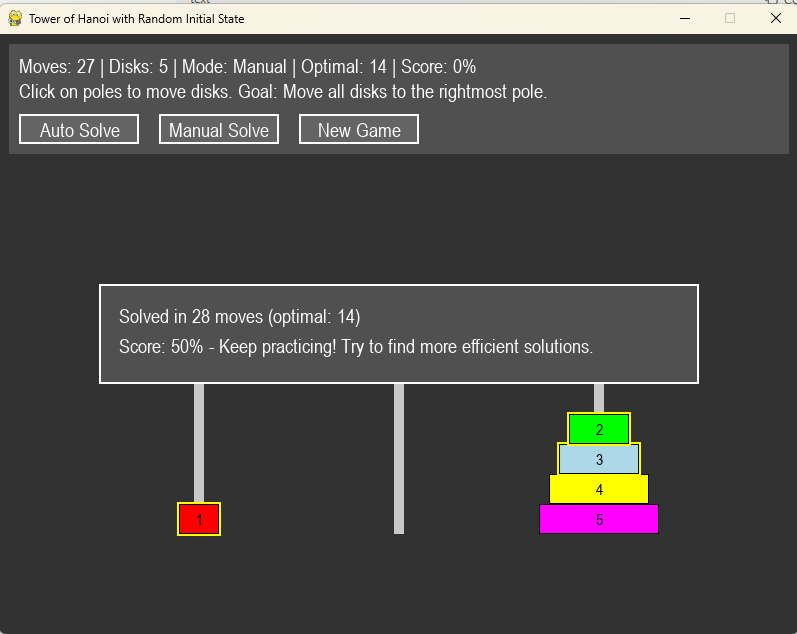
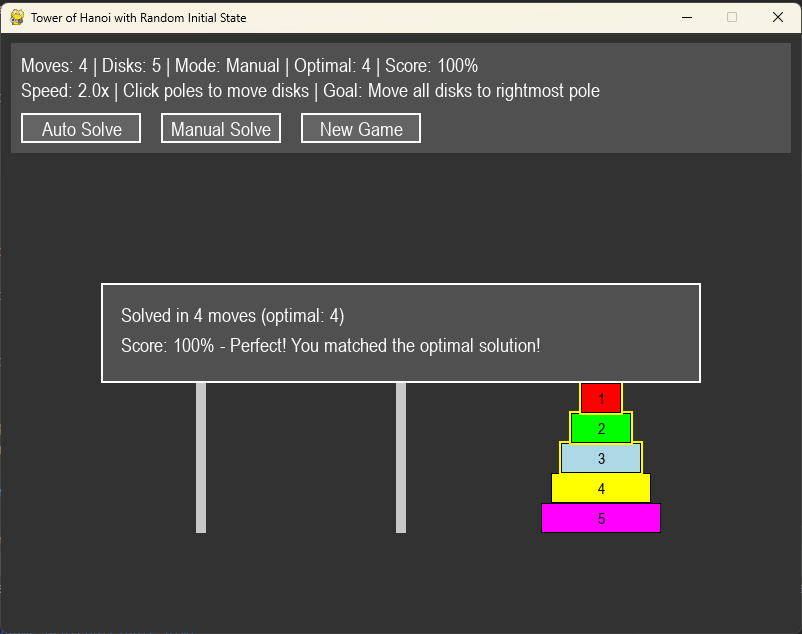
Fixed timing of winning screen

diff --git a/hanoi_pygame.py b/hanoi_pygame.py
@@ -2,9 +2,13 @@
 # Fadil Eldin
 # July 12 2025
 # Tower of Hanoi puzzle with a variation.Allow starting from any valid initial state and always move all disks to the rightmost pole.
-# 2 modes:
-# 1) Auto, You stack the disks on the right pole.
-# 2) Manual, let user solve the problem manually.
+# Two modes:
+# 1) Manual: Play and solve the puzzle yourself by moving disks.
+# 2) Auto: Watch the shortest solution found for the current state.
+# Optimal Moves Calculation: Shows the minimal number of moves required from the current state (using BFS).
+# Scoring: Get a score based on how close you are to the optimal solution.
+# Interactive GUI: Click to select and move disks, or use buttons to switch modes or start a new game.
+# Customizable Disk Count: Easily modify the number of disks between 3 and 8.
 # -------------------------------------------------------------------------------------
 import pygame
 import sys
@@ -38,6 +42,11 @@ PANEL_COLOR = (80, 80, 80)  # Darker gray panel
 BUTTON_COLOR = (100, 100, 100)  # Gray for buttons
 BUTTON_HOVER_COLOR = (120, 120, 120)  # Lighter gray for button hover
 
+# Auto-solve speed control
+MIN_AUTO_DELAY = 0.1   # Fastest speed (100ms between moves)
+MAX_AUTO_DELAY = 2.0   # Slowest speed (2 seconds between moves)
+AUTO_DELAY_STEP = 0.1  # Speed adjustment increment
+
 # Disk settings
 MAX_DISKS = 8
 MIN_DISKS = 3
@@ -51,6 +60,7 @@ class Disk:
         self.color = color
         self.width = MIN_DISK_WIDTH + (size - 1) * DISK_WIDTH_INCREMENT
         self.selected = False
+        self.auto_move_delay = 0.5  # Default speed (medium)
     # ----------------------------------------
     def draw(self, screen, x: int, y: int, font):
         # Draw disk rectangle
@@ -133,6 +143,11 @@ class HanoiGame:
         self.optimal_moves = 0
         self.user_score = 0
         self.solved = False
+        
+        # Win message display control
+        self.show_win_message_flag = False
+        self.win_message_start_time = 0
+        self.win_message_duration = 3.0  # seconds
 
         # Buttons
         button_width = 120
@@ -142,6 +157,17 @@ class HanoiGame:
         self.new_game_button = Button(300, 80, button_width, button_height, "New Game")
 
         self.generate_random_initial_state()
+    # ----------------------------------------
+    def adjust_speed(self, increase: bool):
+        """Adjust auto-solve speed using arrow keys"""
+        if increase:
+            self.auto_move_delay = max(MIN_AUTO_DELAY, self.auto_move_delay - AUTO_DELAY_STEP)
+        else:
+            self.auto_move_delay = min(MAX_AUTO_DELAY, self.auto_move_delay + AUTO_DELAY_STEP)
+
+        # Show speed change feedback
+        speed_multiplier = 1 / self.auto_move_delay
+        print(f"Auto-solve speed: {speed_multiplier:.1f}x speed ({self.auto_move_delay:.1f}s delay)")
     # ----------------------------------------
     def generate_random_initial_state(self):
         # Clear all poles
@@ -174,6 +200,8 @@ class HanoiGame:
         self.optimal_moves = self.calculate_optimal_moves()
         self.user_score = 0
         self.solved = False
+        self.show_win_message_flag = False
+        self.win_message_start_time = 0
     # ----------------------------------------
     def calculate_optimal_moves(self) -> int:
         """
@@ -232,17 +260,29 @@ class HanoiGame:
         # Draw panel
         pygame.draw.rect(screen, PANEL_COLOR, (10, 10, 780, 110))
 
-        # Draw game info
+        # Prepare mode-specific instructions
+        mode_instructions = ""
+        if self.mode == "auto" and self.auto_solving:
+            mode_instructions = "↑/↓: Change speed"
+        elif self.mode == "manual":
+            mode_instructions = "Click poles to move disks"
+
+        # Draw game info (two lines)
         mode_text = "Auto" if self.mode == "auto" else "Manual"
-        info_text = self.font.render(
-            f"Moves: {self.moves} | Disks: {self.disk_count} | Mode: {mode_text} | " +
+        info_line1 = self.font.render(
+            f"Moves: {self.moves} | Disks: {self.disk_count} | Mode: {mode_text} | "
             f"Optimal: {self.optimal_moves} | Score: {self.user_score}%",
             True, TEXT_COLOR
         )
-        instruction_text = self.font.render("Click on poles to move disks. Goal: Move all disks to the rightmost pole.",
-                                            True, TEXT_COLOR)
-        screen.blit(info_text, (20, 20))
-        screen.blit(instruction_text, (20, 45))
+
+        info_line2 = self.font.render(
+            f"Speed: {1 / self.auto_move_delay:.1f}x | {mode_instructions} | "
+            f"Goal: Move all disks to rightmost pole",
+            True, TEXT_COLOR
+        )
+
+        screen.blit(info_line1, (20, 20))
+        screen.blit(info_line2, (20, 45))
 
         # Draw buttons
         self.auto_solve_button.draw(screen, self.font)
@@ -265,6 +305,40 @@ class HanoiGame:
                 disk_y = SCREEN_HEIGHT - 100 - (i + 1) * DISK_HEIGHT
                 disk_x = pole.x - disk.width // 2
                 disk.draw(screen, disk_x, disk_y, self.disk_font)
+
+        # Draw win message if needed
+        if self.show_win_message_flag:
+            self.draw_win_message(screen)
+    # ----------------------------------------
+    def draw_win_message(self, screen):
+        """Draw the win message overlay"""
+        # Calculate performance rating
+        rating = ""
+        if self.moves == self.optimal_moves:
+            rating = "Perfect! You matched the optimal solution!"
+        elif self.moves <= self.optimal_moves * 1.2:
+            rating = "Excellent! Very close to optimal!"
+        elif self.moves <= self.optimal_moves * 1.5:
+            rating = "Good! You can still improve."
+        else:
+            rating = "Keep practicing! Try to find more efficient solutions."
+
+        # Create a surface for the win message
+        msg_surface = pygame.Surface((600, 100))
+        msg_surface.fill(PANEL_COLOR)
+        pygame.draw.rect(msg_surface, TEXT_COLOR, msg_surface.get_rect(), 2)
+
+        # Render text lines
+        line1 = self.font.render(f"Solved in {self.moves} moves (optimal: {self.optimal_moves})", True, TEXT_COLOR)
+        line2 = self.font.render(f"Score: {self.user_score}% - {rating}", True, TEXT_COLOR)
+
+        # Center the message on screen
+        msg_rect = msg_surface.get_rect(center=(SCREEN_WIDTH // 2, SCREEN_HEIGHT // 2))
+
+        # Blit everything
+        screen.blit(msg_surface, msg_rect)
+        screen.blit(line1, (msg_rect.x + 20, msg_rect.y + 20))
+        screen.blit(line2, (msg_rect.x + 20, msg_rect.y + 50))
     # ----------------------------------------
     def handle_click(self, pos, event):
         # Check buttons first
@@ -378,6 +452,13 @@ class HanoiGame:
             self.auto_solving = False
     # ----------------------------------------
     def update(self):
+        # Handle win message timing
+        if self.show_win_message_flag:
+            current_time = time.time()
+            if current_time - self.win_message_start_time >= self.win_message_duration:
+                self.show_win_message_flag = False
+
+        # Handle auto-solving
         if self.mode == "auto" and self.auto_solving and self.move_sequence:
             current_time = time.time()
             if current_time - self.last_auto_move_time >= self.auto_move_delay:
@@ -411,7 +492,9 @@ class HanoiGame:
         if len(self.poles[-1].disks) == self.disk_count and not self.solved:
             self.solved = True
             self.calculate_user_score()
-            self.show_win_message()
+            # Start showing win message (non-blocking)
+            self.show_win_message_flag = True
+            self.win_message_start_time = time.time()
 
         return True
     # ----------------------------------------
@@ -425,51 +508,12 @@ class HanoiGame:
         else:
             self.user_score = 100  # If optimal is 0 (already solved)
     # ----------------------------------------
-    def show_win_message(self):
-        """Show win message with performance rating"""
-        rating = ""
-        if self.moves == self.optimal_moves:
-            rating = "Perfect! You matched the optimal solution!"
-        elif self.moves <= self.optimal_moves * 1.2:
-            rating = "Excellent! Very close to optimal!"
-        elif self.moves <= self.optimal_moves * 1.5:
-            rating = "Good! You can still improve."
-        else:
-            rating = "Keep practicing! Try to find more efficient solutions."
-
-        win_text = (
-            f"Solved in {self.moves} moves (optimal: {self.optimal_moves}). "
-            f"Score: {self.user_score}%. {rating}"
-        )
-
-        # Create a surface for the win message
-        msg_surface = pygame.Surface((600, 100))
-        msg_surface.fill(PANEL_COLOR)
-        pygame.draw.rect(msg_surface, TEXT_COLOR, msg_surface.get_rect(), 2)
-
-        # Render text lines
-        line1 = self.font.render(f"Solved in {self.moves} moves (optimal: {self.optimal_moves})", True, TEXT_COLOR)
-        line2 = self.font.render(f"Score: {self.user_score}% - {rating}", True, TEXT_COLOR)
-
-        # Center the message on screen
-        screen = pygame.display.get_surface()
-        msg_rect = msg_surface.get_rect(center=(SCREEN_WIDTH // 2, SCREEN_HEIGHT // 2))
-
-        # Blit everything
-        screen.blit(msg_surface, msg_rect)
-        screen.blit(line1, (msg_rect.x + 20, msg_rect.y + 20))
-        screen.blit(line2, (msg_rect.x + 20, msg_rect.y + 50))
-
-        pygame.display.flip()
-        pygame.time.wait(3000)  # Show message for 3 seconds
-    # ----------------------------------------
     def is_valid_state(self) -> bool:
         for pole in self.poles:
             if not pole.is_valid():
                 return False
         return True
 # -------------------------------------------------------------------------------------
-
 def main():
     screen = pygame.display.set_mode((SCREEN_WIDTH, SCREEN_HEIGHT))
     pygame.display.set_caption("Tower of Hanoi with Random Initial State")
@@ -487,8 +531,18 @@ def main():
         game.new_game_button.check_hover(mouse_pos)
 
         for event in pygame.event.get():
+
             if event.type == pygame.QUIT:
                 running = False
+            elif event.type == pygame.KEYDOWN:
+                if event.key == pygame.K_SPACE:
+                    game.generate_random_initial_state()
+                elif event.key == pygame.K_UP:  # Speed up
+                    game.adjust_speed(True)
+                elif event.key == pygame.K_DOWN:  # Slow down
+                    game.adjust_speed(False)
+            elif event.type == pygame.MOUSEBUTTONDOWN:
+                game.handle_click(mouse_pos, event)
             elif event.type == pygame.KEYDOWN:
                 if event.key == pygame.K_SPACE:
                     game.generate_random_initial_state()

diff --git a/README.md b/README.md
@@ -22,6 +22,14 @@ You can **start from any valid random initial state**, and the goal is always to
 - **New Game Button:** Generates a new random valid starting arrangement.
 - **Spacebar:** Quick restart with a new random state.
 
+## Speed Control
+
+During auto-solve mode:
+- Press **Up Arrow** to increase solving speed
+- Press **Down Arrow** to decrease solving speed
+- Speed ranges from 0.1s (fast) to 2.0s (slow) per move
+- Current speed is displayed in the info panel (as a multiplier)
+
 ## How to Run
 
 1. **Install Python:**  
